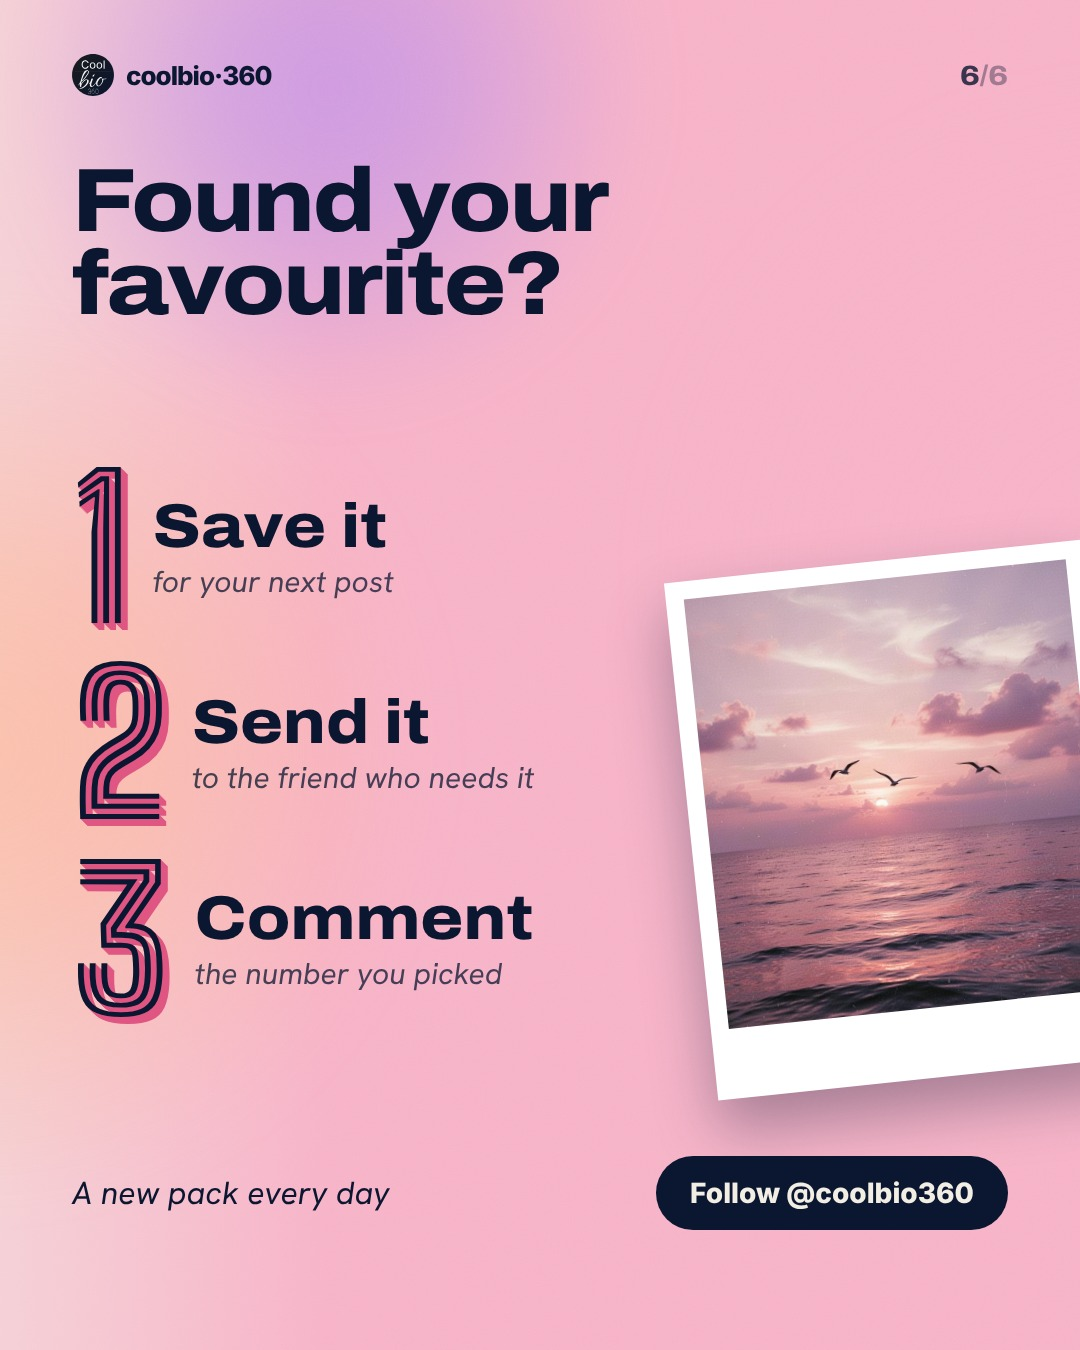
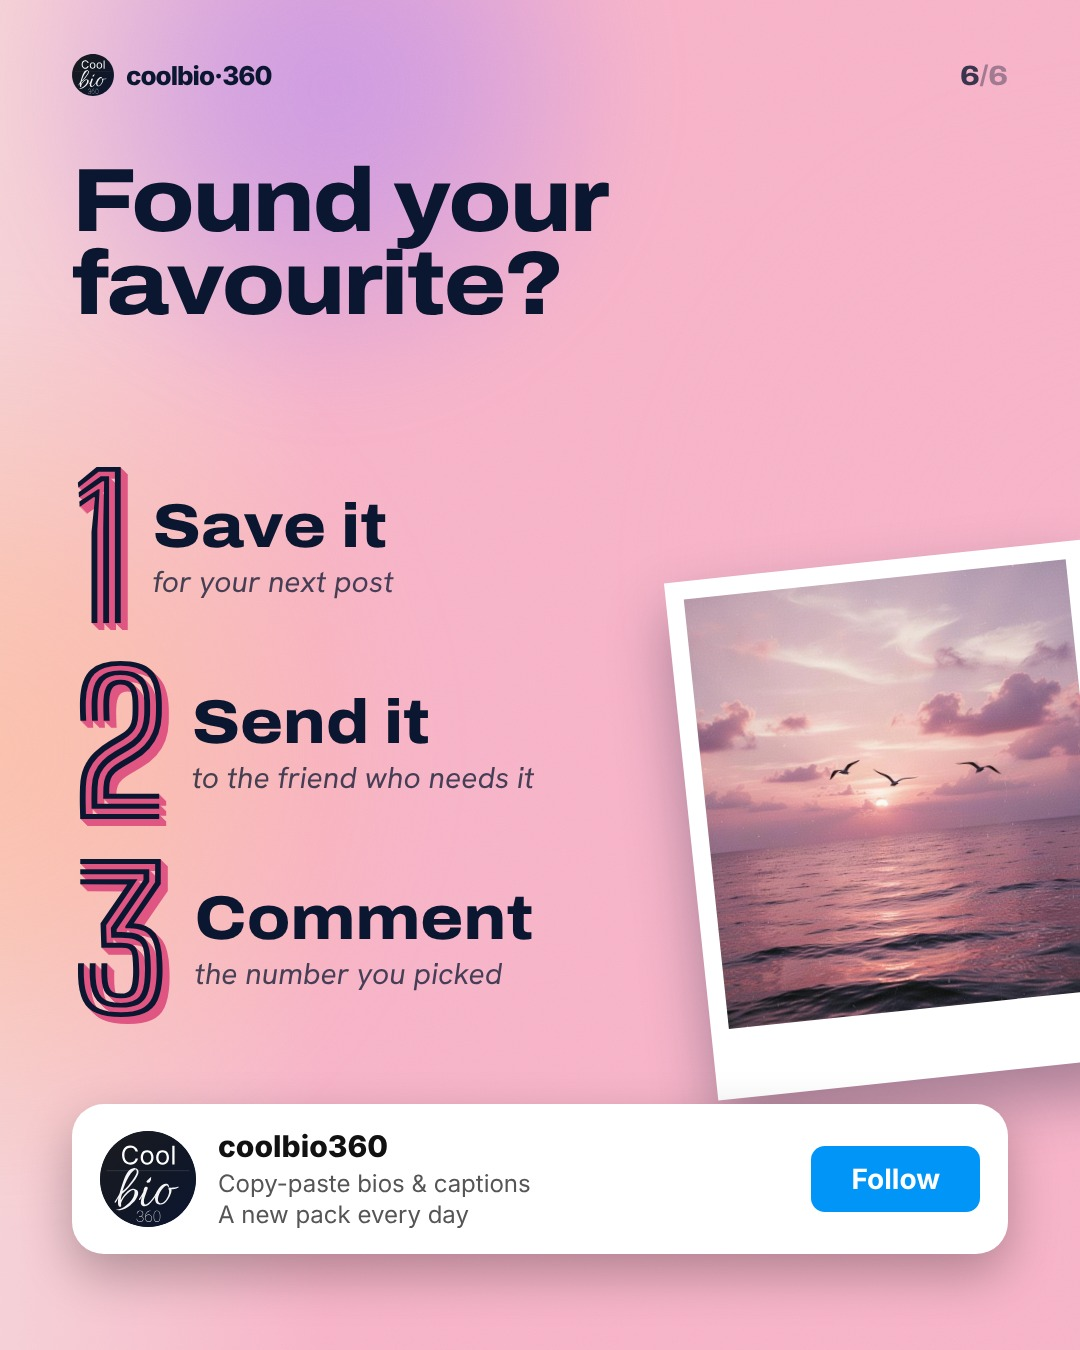
Card profilo IG, layout note, nuova slide preferita
Claude-Session: https://claude.ai/code/session_01JL8RT6ZiLuziuRoxLPPpLq

Changed region(s): [[0.0611, 0.8089, 0.9472, 0.9644]]

diff --git a/tools/packs/gen6_base.py b/tools/packs/gen6_base.py
@@ -42,6 +42,11 @@ def num(k,size,grad):
     if fill.lower()=='#ffffff' or fill.lower()=='#fff': shc=cols[-1] if len(cols)>1 else NAVY
     d=max(4,size//24); shadow=','.join(f'{j}px {j}px 0 {shc}' for j in range(1,d+1))
     return f'<span class="n" style="font-size:{size}px;line-height:.82;color:{fill};text-shadow:{shadow};display:inline-block;padding-right:.06em">{k}</span>'
+def igcard(dark=True):
+    return f'''<div class="z" style="position:absolute;left:{M}px;right:{M}px;bottom:96px;background:#fff;border-radius:32px;padding:24px 28px;display:flex;align-items:center;gap:22px;box-shadow:0 20px 50px rgba(0,0,0,.28);font-family:Inter">
+<img src="{LOGO}" style="width:96px;height:96px;border-radius:50%;background:{NAVY}">
+<div style="flex:1"><div style="font-weight:800;font-size:30px;color:#111">coolbio360</div><div style="font-size:24px;color:#555;margin-top:4px;line-height:1.3">Copy-paste bios &amp; captions<br>A new pack every day</div></div>
+<div style="background:#0095F6;color:#fff;font-weight:700;font-size:28px;padding:16px 40px;border-radius:14px">Follow</div></div>'''
 def title(t,fg,size=80): return f'<h2 class="d" style="margin:0;font-size:{size}px;line-height:.92;letter-spacing:-2px;color:{fg}">{E(t)}</h2>'
 def sticker(t,bg,fg,fs,extra=''): return f'<span class="st" style="background:{bg};color:{fg};font-size:{fs}px;{extra}">{E(t)}</span>'
 # A. blu con luce: numeri a gradiente + caption crema
@@ -55,13 +60,15 @@ def stack(p,s,i,n,img):
     return page(b,f'radial-gradient(120% 80% at 0% 0%,{INK} 0%,{NAVY} 60%)')
 # B. crema: la preferita gigante + le altre in griglia
 def feature(p,s,i,n,img):
-    A,A2=p['accent'],p['A2']; fs=min(s.get('fs',42),64); first,rest=s['bios'][0],s['bios'][1:]
-    grid=''.join(f'''<div style="display:flex;gap:16px;align-items:flex-start">{num(k+2,120,f"linear-gradient(180deg,{A2},{NAVY})")}<div style="padding-top:8px">{sticker(b,'#fff',NAVY,max(min(fs-4,44),38),'box-shadow:0 6px 18px rgba(11,22,49,.10)')}</div></div>''' for k,b in enumerate(rest))
+    A,A2=p['accent'],p['A2']; fs=s.get('fs',42); first,rest=s['bios'][0],s['bios'][1:]
+    emo=fs>=60; big=72 if emo else (64 if len(first)<34 else 56); small=60 if emo else (38 if max(map(len,rest))<34 else 34)
+    cards=''.join(f'''<div style="background:rgba(255,255,255,.72);border-radius:30px;padding:28px 30px;min-height:268px;display:flex;flex-direction:column;justify-content:space-between;gap:14px;box-shadow:0 12px 30px rgba(11,22,49,.10)">
+{num(k+2,84,f"linear-gradient(180deg,{A2},{NAVY})")}<div style="font-family:Inter,'Noto Color Emoji';font-size:{small}px;font-weight:600;color:{NAVY};line-height:1.22">{E(b)}</div></div>''' for k,b in enumerate(rest))
     b=f'''{orbs(p,i,n,.55)}{grain(.06)}{header(i,n,NAVY)}
-<div class="z" style="position:absolute;left:{M}px;right:{M}px;top:150px">{title(s['h'],NAVY)}</div>
-<div class="z" style="position:absolute;left:{M-10}px;top:300px">{num(1,430,f"linear-gradient(170deg,{A} 0%,{A2} 70%)")}</div>
-<div class="z" style="position:absolute;left:330px;right:{M}px;top:400px"><div class="sub" style="font-size:30px;color:{A2};margin-bottom:14px">Our favourite</div>{sticker(first,NAVY,CREAM,fs+12)}</div>
-{('<div class="z" style="position:absolute;left:'+str(M)+'px;right:'+str(M)+'px;top:700px;display:flex;flex-direction:column;gap:26px">'+grid+'</div>') if max(map(len,rest))>26 else ('<div class="z" style="position:absolute;left:'+str(M)+'px;right:'+str(M)+'px;top:800px;display:grid;grid-template-columns:1fr 1fr;gap:64px 36px">'+grid+'</div>')}
+<div class="z" style="position:absolute;left:{M}px;right:{M}px;top:150px;display:flex;align-items:baseline;gap:18px"><span class="d" style="font-size:44px;color:{NAVY}">{E(s['h'])}</span><span class="sub" style="font-size:30px;color:{A2}">our favourite</span></div>
+<div class="z" style="position:absolute;left:{M-6}px;top:230px">{num(1,250,f"linear-gradient(180deg,{A},{A2})")}</div>
+<div class="z" style="position:absolute;left:260px;right:{M}px;top:230px;height:340px;display:flex;align-items:center"><div class="d" style="font-family:Archivo,'Noto Color Emoji';font-size:{big}px;line-height:1.05;letter-spacing:-1.5px;color:{NAVY}">“{E(first)}”</div></div>
+<div class="z" style="position:absolute;left:{M}px;right:{M}px;top:610px;display:grid;grid-template-columns:1fr 1fr;gap:24px">{cards}</div>
 {progress(i,n,NAVY,'rgba(11,22,49,.12)')}'''
     return page(b,f'linear-gradient(165deg,{CREAM} 0%,{CREAM} 45%,{A}66 100%)')
 # C. colore pieno a gradiente: caption bianche, numeri blu pieni, allineamento a scala
@@ -119,9 +126,7 @@ def end(p,n,img):
 <div class="z" style="position:absolute;right:-40px;top:170px;width:360px;height:450px;background:url({img}) center/cover;border-radius:28px;transform:rotate(7deg);box-shadow:0 30px 60px rgba(0,0,0,.45)"></div>
 <div class="z" style="position:absolute;left:{M}px;width:600px;top:170px">{title(p.get('cta_h','Found your favourite?'),CREAM,84)}</div>
 <div class="z" style="position:absolute;left:{M}px;right:{M}px;top:500px;display:flex;flex-direction:column;gap:40px">{rows}</div>
-<div class="z" style="position:absolute;left:{M}px;right:{M}px;bottom:120px;display:flex;justify-content:space-between;align-items:center">
-<span class="sub" style="font-size:32px;color:{CREAM}">A new pack every day</span>
-<span style="background:linear-gradient(90deg,{A},{A2});color:{NAVY};font-weight:800;font-size:28px;padding:20px 34px;border-radius:999px">Follow @coolbio360</span></div>
+{igcard()}
 {progress(n,n,A,'rgba(243,238,228,.18)')}'''
     return page(b,f'radial-gradient(120% 80% at 0% 0%,{INK} 0%,{NAVY} 60%)')
 def build(p):

diff --git a/tools/packs/gen6_layouts.py b/tools/packs/gen6_layouts.py
@@ -128,13 +128,22 @@ def end_color(p,n,img):
 <div class="z" style="position:absolute;right:-30px;top:560px;width:420px;height:520px;background:#fff;padding:18px 18px 70px;transform:rotate(-6deg);box-shadow:0 30px 60px rgba(11,22,49,.35)"><div style="width:100%;height:100%;background:url({img}) center/cover"></div></div>
 <div class="z" style="position:absolute;left:{M}px;right:{M}px;top:160px">{title(p.get('cta_h','Found your favourite?'),NAVY,90)}</div>
 <div class="z" style="position:absolute;left:{M}px;top:470px;display:flex;flex-direction:column;gap:40px">{rows}</div>
-<div class="z" style="position:absolute;left:{M}px;right:{M}px;bottom:120px;display:flex;justify-content:space-between;align-items:center">
-<span class="sub" style="font-size:32px;color:{NAVY}">A new pack every day</span>
-<span style="background:{NAVY};color:{CREAM};font-weight:800;font-size:28px;padding:20px 34px;border-radius:999px">Follow @coolbio360</span></div>
+{V.igcard()}
 {progress(n,n,NAVY,'rgba(11,22,49,.18)')}'''
     return page(b,f'linear-gradient(160deg,{A} 0%,{A2} 100%)')
+def notes(p,s,i,n,img):
+    A,A2=p['accent'],p['A2']; fs=min(s.get('fs',42),64); fs=40 if fs<50 else fs
+    rows=''.join(f'''<div style="height:150px;display:flex;align-items:center;gap:24px;border-bottom:2px solid #ECE6D6">
+{num(k+1,96,f"linear-gradient(180deg,{A2},{NAVY})")}<span style="font-family:Inter,'Noto Color Emoji';font-size:{fs}px;font-weight:500;color:#1c1c1e;line-height:1.2">{E(b)}</span></div>''' for k,b in enumerate(s['bios']))
+    b=f'''{grain()}{header(i,n,CREAM)}
+<div class="z" style="position:absolute;left:{M}px;right:{M}px;top:140px;bottom:96px;background:#FFFDF6;border-radius:40px;padding:30px 44px;box-shadow:0 30px 70px rgba(0,0,0,.35);font-family:Inter">
+<div style="display:flex;justify-content:space-between;font-size:30px;color:#E0A800;font-weight:500"><span>‹ Notes</span><span style="font-weight:700">Done</span></div>
+<div style="text-align:center;font-size:22px;color:#9a948a;margin-top:18px">Today at 21:03</div>
+<div class="d" style="font-family:Archivo,'Noto Color Emoji';font-size:58px;color:#1c1c1e;margin-top:14px;letter-spacing:-1.5px">{E(s['h'])}</div>
+<div style="margin-top:14px;border-top:2px solid #ECE6D6">{rows}</div></div>'''
+    return page(b,NAVY)
 COVERS={'photo':V.cover,'arch':cover_arch,'type':cover_type}
-L={'stack':V.stack,'feature':V.feature,'ladder':V.ladder,'story':V.story,'meme':V.meme,'chat':chat,'spectrum':spectrum,'bento':bento,'split':split,'comments':comments,'memechat':memechat}
+L={'stack':V.stack,'feature':V.feature,'ladder':V.ladder,'story':V.story,'meme':V.meme,'chat':chat,'spectrum':spectrum,'bento':bento,'split':split,'notes':notes,'comments':comments,'memechat':memechat}
 PLAN={'winter01':('photo',['chat','stack','spectrum']),'user01':('arch',['bento','split','story','ladder']),
       'emoji01':('type',['spectrum','bento','chat','feature']),'bday01':('arch',['comments','feature','split']),'meme01':('type',['meme','memechat'])}
 def build(p):

diff --git a/tools/packs/gen_pack6.py b/tools/packs/gen_pack6.py
@@ -6,7 +6,7 @@ import gen6_base as V, gen6_layouts as L5
 B=os.path.dirname(os.path.abspath(__file__)); OUT=B+'/out6/'
 W,H,NAVY,CREAM=V.W,V.H,V.NAVY,V.CREAM
 CTX={}
-TONE={'stack':'d','chat':'d','split':'d','memechat':'d','story':'d','comments':'d','end':'d','arch':'d','photo':'d',
+TONE={'stack':'d','chat':'d','split':'d','notes':'d','memechat':'d','story':'d','comments':'d','end':'d','arch':'d','photo':'d',
       'feature':'l','bento':'l','spectrum':'l','meme':'l','ladder':'a','type':'a','end_color':'a'}
 def panorama():
     p,i,n,tones=CTX['p'],CTX['i'],CTX['n'],CTX['tones']; A,A2=p['accent'],p['A2']; hues=p['hues']
@@ -28,8 +28,8 @@ def page(body,bg):
     return f'<!doctype html><html><head><meta charset="utf-8">{V.FONTS}<style>{V.CSS}</style></head><body><div class="s" style="background:{NAVY};--sh:{CTX["p"]["A2"] if CTX else NAVY}">{pan}{body}</div></body></html>'
 for M_ in (V,L5):
     M_.page=page; M_.orbs=lambda *a,**k:''; M_.progress=lambda *a,**k:''
-PLAN={'winter01':('photo',['chat','stack','spectrum']),'user01':('arch',['bento','split','story','ladder']),
-      'emoji01':('type',['spectrum','bento','chat','feature']),'bday01':('arch',['comments','feature','split']),'meme01':('type',['meme','memechat'])}
+PLAN={'winter01':('photo',['chat','stack','spectrum']),'user01':('arch',['bento','notes','story','ladder']),
+      'emoji01':('type',['spectrum','bento','chat','feature']),'bday01':('arch',['comments','feature','notes']),'meme01':('type',['meme','memechat'])}
 def build(p):
     img=V.uri(p['bg']); sl=p['slides']; n=len(sl)+2; cv,seq=PLAN[p['slug']]
     endk='end_color' if cv=='type' else 'end'
